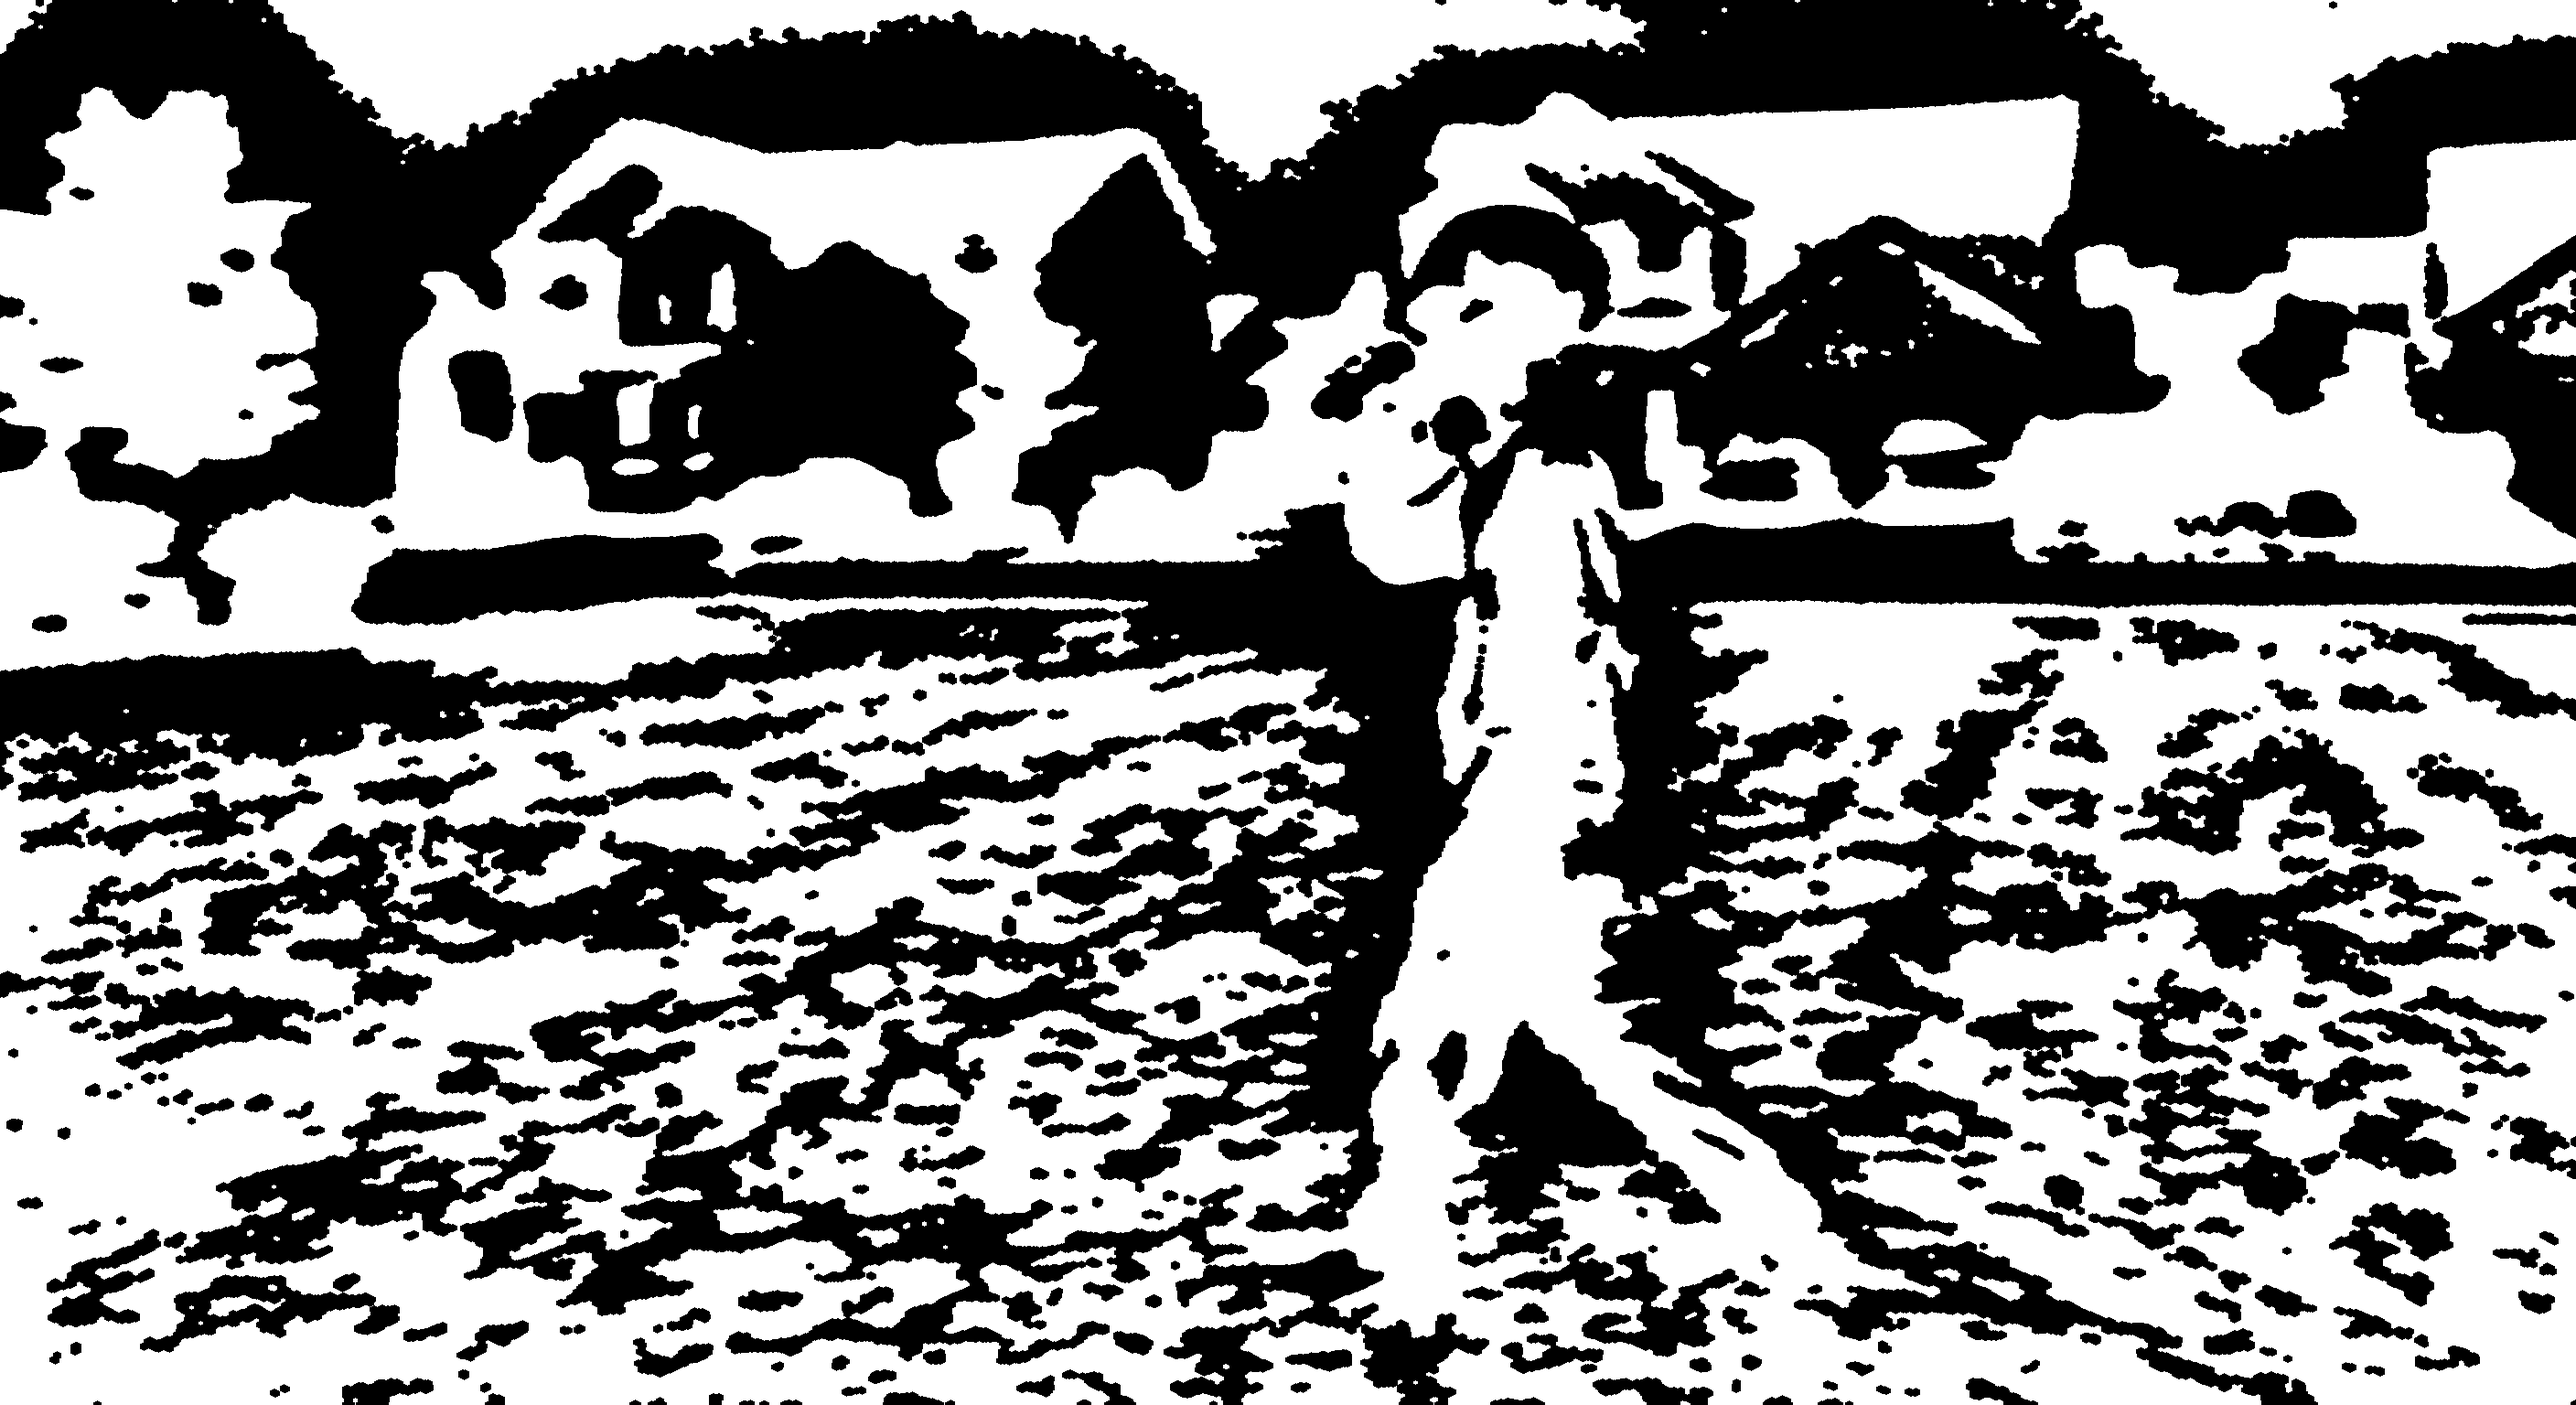
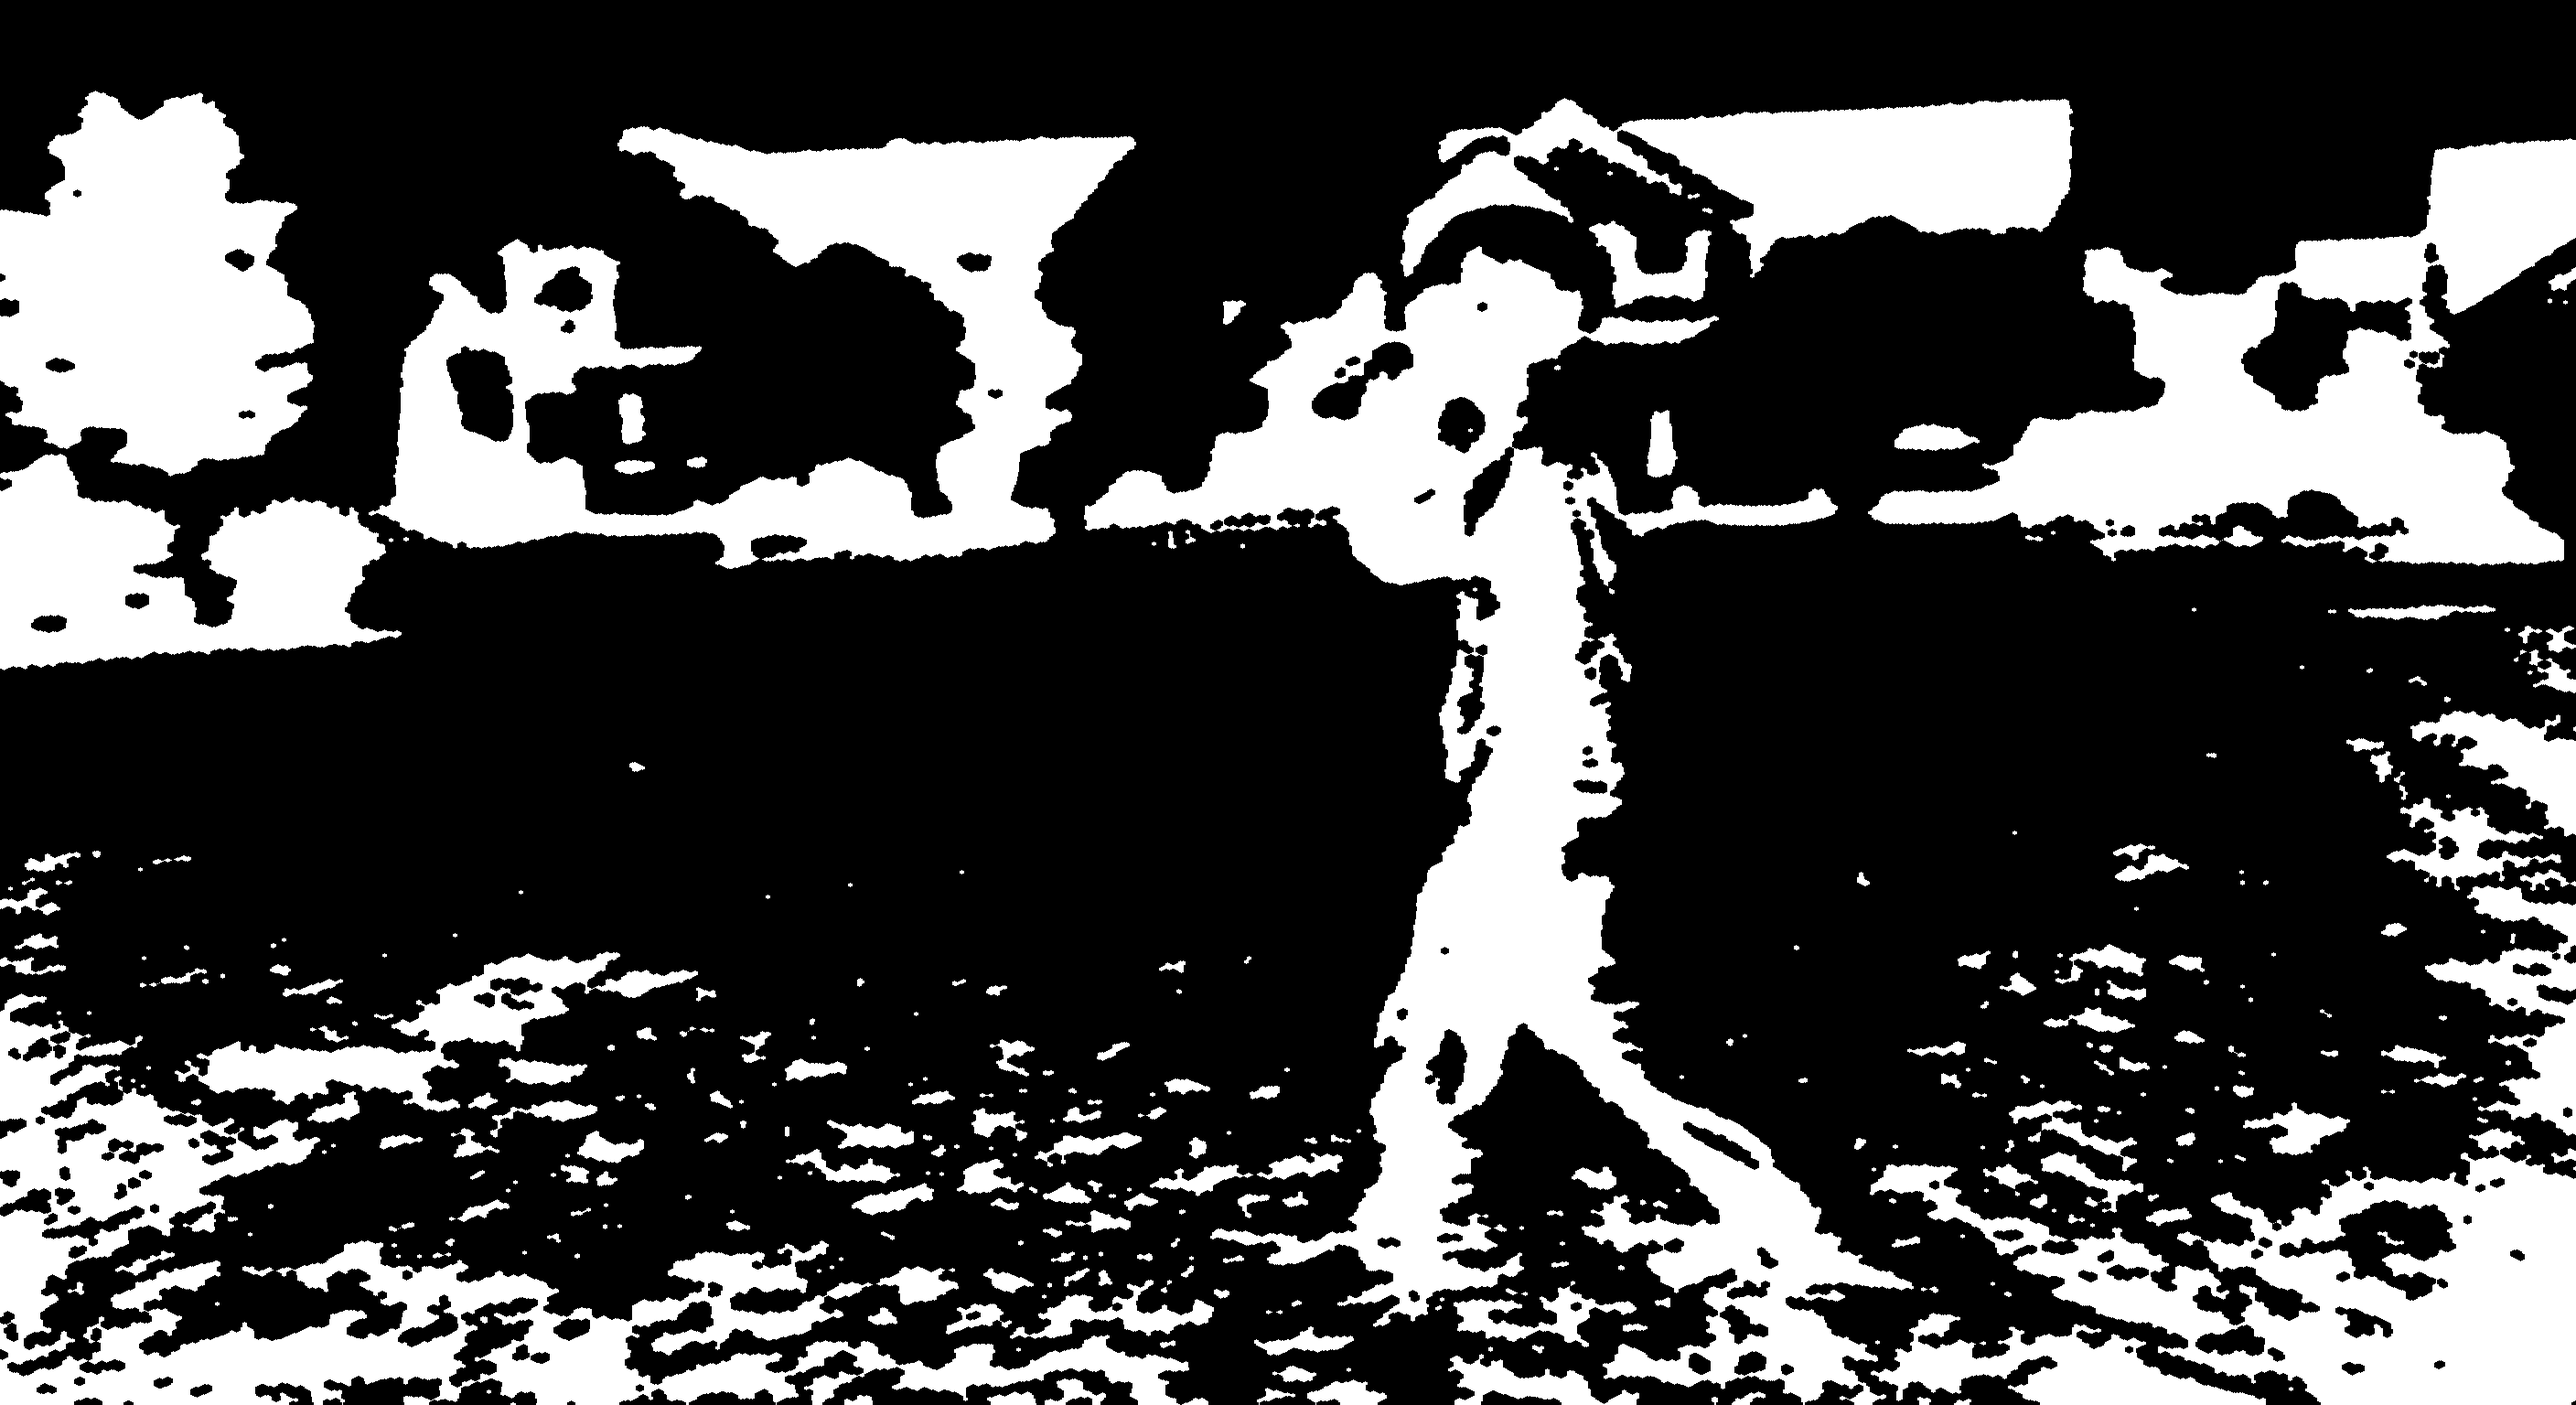
Complete part 5 quant analysis and tune otsu

diff --git a/hw2_script.py b/hw2_script.py
@@ -8,6 +8,7 @@ import matplotlib.pyplot as plt
 
 # Constant variables
 IMG_NAME = "original.png"
+GROUND_TRUTH_NAME = "ground_truth.png"
 CURRENT_DIR = Path.cwd()
 RESULTS_DIR = CURRENT_DIR / "hw2-results" # Directory to store project results
 PART2_DIR = RESULTS_DIR / "part2" # Directory to store results from part 2
@@ -71,8 +72,8 @@ print("\n 1. Split the image into its three color channels, apply Histogram Equa
 # The image is then converted back to BRG as necessary
 # The image is saved to results/part2/
 
-# ==============  BRG Equalization from orig img ==============
-# Not used: Equalized image is not as clear as the HSV image.
+# # ==============  BRG Equalization from orig img ==============
+# # Not used: Equalized image is not as clear as the HSV image.
 
 # norm_brg_file = "norm_brg_img.png"
 
@@ -116,8 +117,8 @@ norm_hsv_brg = cv.cvtColor(norm_hsv, cv.COLOR_HSV2BGR)
 
 write_file(PART2_DIR / norm_hsv_file, norm_hsv_brg)
 
-# ==============  CIELab conversion from orig img ==============
-# Not used: Resulted in very dull colors with little contrast
+# # ==============  CIELab conversion from orig img ==============
+# # Not used: Resulted in very dull colors with little contrast
 
 # cielab_file = "cielab_img.png"
 # norm_cielab_file = "norm_cielab_img.png"
@@ -144,29 +145,29 @@ print("\n==================== Part 3: Threshold Based Segmentation =============
 
 # Convert to greyscale
 grey_img = cv.cvtColor(norm_hsv_brg, cv.COLOR_BGR2GRAY)
-blur = cv.GaussianBlur(grey_img,(5,5),1.0)
+# blur = cv.GaussianBlur(grey_img,(5,5),.5) # Applying blur did not improve final IoU or DICE metrics
 
 print("\n1. Otsu's Global Thresholding")
 
 otsu_threshold, otsu_mask = cv.threshold(
-    blur, 0, 255, cv.THRESH_BINARY_INV + cv.THRESH_OTSU
+    grey_img, 0, 255, cv.THRESH_BINARY_INV + cv.THRESH_OTSU
 )
 
-kernel = cv.getStructuringElement(cv.MORPH_ELLIPSE, (5, 5))
+kernel = cv.getStructuringElement(cv.MORPH_ELLIPSE, (35,35))
 clean_otsu_mask = cv.morphologyEx(otsu_mask, cv.MORPH_OPEN, kernel, iterations=1)
 clean_otsu_mask = cv.morphologyEx(clean_otsu_mask, cv.MORPH_CLOSE, kernel, iterations=1)
 
-otsu_foreground_img = cv.bitwise_and(norm_hsv_brg, norm_hsv_brg, mask=clean_otsu_mask)
+otsu_foreground_img = cv.bitwise_and(norm_hsv_brg, norm_hsv_brg, mask=otsu_mask)
 
-otsu_mask = "otsu_mask.png"
+otsu_mask_file = "otsu_mask.png"
 otsu_foreground = "otsu_foreground.png"
-write_file(PART3_DIR / otsu_mask, clean_otsu_mask)
+write_file(PART3_DIR / otsu_mask_file, otsu_mask)
 write_file(PART3_DIR / otsu_foreground, otsu_foreground_img)
 
 print("\n2. Adaptive Thresholding")
 
 adapt_thresholded_mask = cv.adaptiveThreshold(
-    blur, 255, cv.ADAPTIVE_THRESH_GAUSSIAN_C, cv.THRESH_BINARY_INV,501,-5
+    grey_img, 255, cv.ADAPTIVE_THRESH_GAUSSIAN_C, cv.THRESH_BINARY_INV,1401,-2
 )
 
 kernel = cv.getStructuringElement(cv.MORPH_ELLIPSE, (5, 5))
@@ -209,4 +210,43 @@ kmeans_foreground = "kmeans_foreground.png"
 write_file(PART4_DIR / kmeans_mask, cluster_mask)
 write_file(PART4_DIR / kmeans_foreground, kmeans_foreground_img)
 
-print("\n==================== Part 4: Classical and Optimization-Based Segmentation ==================== ")
+print("\n==================== Part 5: Evaluation and Analysis ==================== ")
+
+print("\n 1. Qualitative Analysis:\n    See README for discussion")
+
+print("\n 2. Quantitative Comparison")
+
+masks = {
+    "Otsu's": clean_otsu_mask,
+    "Adaptive Thresholding": adapt_thresholded_mask_clean,
+    "K-Means Clustering": cluster_mask}
+
+ground_truth_img = cv.imread(GROUND_TRUTH_NAME)
+ground_truth_grey = cv.cvtColor(ground_truth_img, cv.COLOR_RGB2GRAY)
+_, ground_truth_binary = cv.threshold(ground_truth_grey, 127, 255, cv.THRESH_BINARY)
+
+for name, mask in masks.items():
+    _, calculated_mask_binary = cv.threshold(mask, 127, 255, cv.THRESH_BINARY)
+
+    intersection = cv.bitwise_and(ground_truth_binary, calculated_mask_binary)
+    union = cv.bitwise_or(ground_truth_binary, calculated_mask_binary)
+
+    intersection_area = cv.countNonZero(intersection)
+    union_area = cv.countNonZero(union)
+
+    if union_area == 0:
+        iou = 1.0 if (intersection_area == 0) else 0.0
+    else:
+        iou = (intersection_area / union_area)
+
+    print(f"\nIoU for {name}: {iou}")
+
+    dice_num = 2 * intersection_area
+    dice_denom = cv.countNonZero(ground_truth_binary) + cv.countNonZero(calculated_mask_binary)
+
+    if dice_denom == 0:
+        dice = 1.0 if (dice_num == 0) else 0.0
+    else:
+        dice = dice_num / dice_denom
+
+    print(f"\nDice Coefficient for {name}: {dice}")

diff --git a/README.md b/README.md
@@ -43,6 +43,7 @@
       - [Running the HW2](#running-the-hw2)
     - [Qualitative Analysis](#qualitative-analysis)
     - [Quantitative Comparison](#quantitative-comparison)
+      - [Summary](#summary)
     - [HW2 Plot](#hw2-plot)
 
 This repository was completed as part of CS898BA and serves as an introduction to image analysis and processing using Python and OpenCV.
@@ -473,5 +474,173 @@ k=4 cluster 3 is best less noise but darker
 k=5 cluster 0 is best darker than k=4. Slightly less noise but also less definition in figure
 
 ### Quantitative Comparison
+
+#### Summary
+
+| Color Space | Method | IoU | DICE |
+| --- | --- | --- | --- |
+| HSV | Otsu's | 0.09378809091958203 | 0.1714922510094829 |
+| HSV | Adaptive | 0.0795855098833304 | 0.14743715834409654 |
+| HSV | K-Means | 0.10726443707882026 | 0.1937467392374757 |
+| BRG | Otsu's | 0.09092656948974875 | 0.16669603992187518 |
+| BRG | Adaptive | 0.0759775862118506 | 0.14122522101848184 |
+| BRG | K-Means | 0.0918732553077061 | 0.16828556769039069 |
+| Lab | Otsu's | 0.0938214848227465 | 0.17154807457077925 |
+| Lab | Adaptive | 0.08223744856592287 | 0.15197671948036182 |
+| Lab | K-Means | 0.060034183057928125 | 0.11326839080744515 |
+
+sigma 1.0:
+
+| Color Space | Method | IoU | DICE |
+| --- | --- | --- | --- |
+| HSV | Otsu's | 0.09378809091958203 | 0.1714922510094829 |
+| HSV | Adaptive | 0.0795855098833304 | 0.14743715834409654 |
+| HSV | K-Means | 0.10726443707882026 | 0.1937467392374757 |
+
+sigma 0.5:
+IoU for Otsu's: 0.09806164865605098
+
+Dice Coefficient for Otsu's: 0.17860863964436138
+
+IoU for Adaptive Thresholding: 0.10411629637917698
+
+Dice Coefficient for Adaptive Thresholding: 0.18859661200656935
+
+IoU for K-Means Clustering: 0.10726443707882026
+
+Dice Coefficient for K-Means Clustering: 0.1937467392374757
+
+sigma: 1.5:
+
+IoU for Otsu's: 0.09315530553565982
+
+Dice Coefficient for Otsu's: 0.17043379849858123
+
+IoU for Adaptive Thresholding: 0.07648359756466988
+
+Dice Coefficient for Adaptive Thresholding: 0.1420989557810241
+
+IoU for K-Means Clustering: 0.10726443707882026
+
+Dice Coefficient for K-Means Clustering: 0.1937467392374757
+
+
+sigma 2.0:
+
+IoU for Otsu's: 0.09311737946698775
+
+Dice Coefficient for Otsu's: 0.17037032109468883
+
+IoU for Adaptive Thresholding: 0.07616686376619156
+
+Dice Coefficient for Adaptive Thresholding: 0.14155214461749047
+
+IoU for K-Means Clustering: 0.10726443707882026
+
+Dice Coefficient for K-Means Clustering: 0.1937467392374757
+
+
+no blur morph elipse 5,5:
+IoU for Otsu's: 0.10235296383271085
+
+Dice Coefficient for Otsu's: 0.18569907677636285
+
+IoU for Adaptive Thresholding: 0.12540531743257302
+
+Dice Coefficient for Adaptive Thresholding: 0.222862493165866
+
+IoU for K-Means Clustering: 0.10726443707882026
+
+Dice Coefficient for K-Means Clustering: 0.1937467392374757
+
+w/o clean otsu:
+IoU for Otsu's: 0.09361501206543657
+
+Dice Coefficient for Otsu's: 0.17120286578479246
+
+IoU for Adaptive Thresholding: 0.12540531743257302
+
+Dice Coefficient for Adaptive Thresholding: 0.222862493165866
+
+IoU for K-Means Clustering: 0.10726443707882026
+
+Dice Coefficient for K-Means Clustering: 0.1937467392374757
+
+morph elipse 13,13:
+IoU for Otsu's: 0.11033255650701375
+
+Dice Coefficient for Otsu's: 0.19873785715895434
+
+morph elipse 31,31:
+IoU for Otsu's: 0.11408313420225871
+
+Dice Coefficient for Otsu's: 0.20480183336398528
+
+morph elipse 101
+
+IoU for Otsu's: 0.03332852496852707
+
+Dice Coefficient for Otsu's: 0.06450712268790254
+
+51:
+IoU for Otsu's: 0.11035803170822074
+
+Dice Coefficient for Otsu's: 0.19877918393302632
+
+35:
+IoU for Otsu's: 0.11729640056392247
+
+Dice Coefficient for Otsu's: 0.20996469782722035
+
+40:
+IoU for Otsu's: 0.11719592855742936
+
+Dice Coefficient for Otsu's: 0.20980371582405907
+
+adaptive thresh oroginal 501,-5:
+IoU for Adaptive Thresholding: 0.12540531743257302
+
+Dice Coefficient for Adaptive Thresholding: 0.222862493165866
+
+701,-5:
+IoU for Adaptive Thresholding: 0.13168238993710693
+
+Dice Coefficient for Adaptive Thresholding: 0.2327196943383119
+
+1001,-5:
+IoU for Adaptive Thresholding: 0.13702997003762538
+
+Dice Coefficient for Adaptive Thresholding: 0.24103141280100285
+
+5001,-5:
+IoU for Adaptive Thresholding: 0.11706340442875521
+
+Dice Coefficient for Adaptive Thresholding: 0.20959133378578307
+
+2001,-5:
+
+IoU for Adaptive Thresholding: 0.13614378106971253
+
+Dice Coefficient for Adaptive Thresholding: 0.23965942222828382
+
+1501,-5:
+IoU for Adaptive Thresholding: 0.1388546684938474
+
+Dice Coefficient for Adaptive Thresholding: 0.243849671666157
+
+1401,-5:
+IoU for Adaptive Thresholding: 0.13923707830393067
+
+Dice Coefficient for Adaptive Thresholding: 0.2444391618840629
+
+1301,-5:
+IoU for Adaptive Thresholding: 0.13877644870775246
+
+Dice Coefficient for Adaptive Thresholding: 0.24372904596899875
+
+1401,-2
+IoU for Adaptive Thresholding: 0.14445584680140877
+
+Dice Coefficient for Adaptive Thresholding: 0.25244459575289396
 
 ### HW2 Plot
